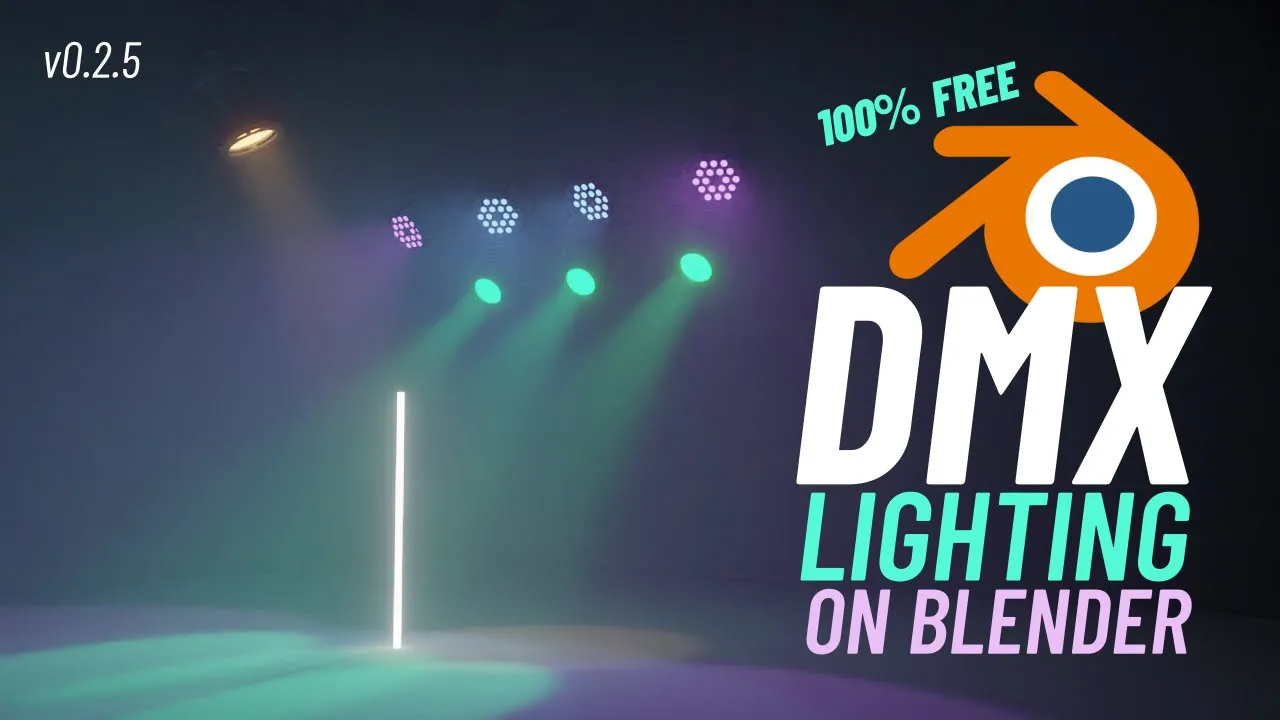
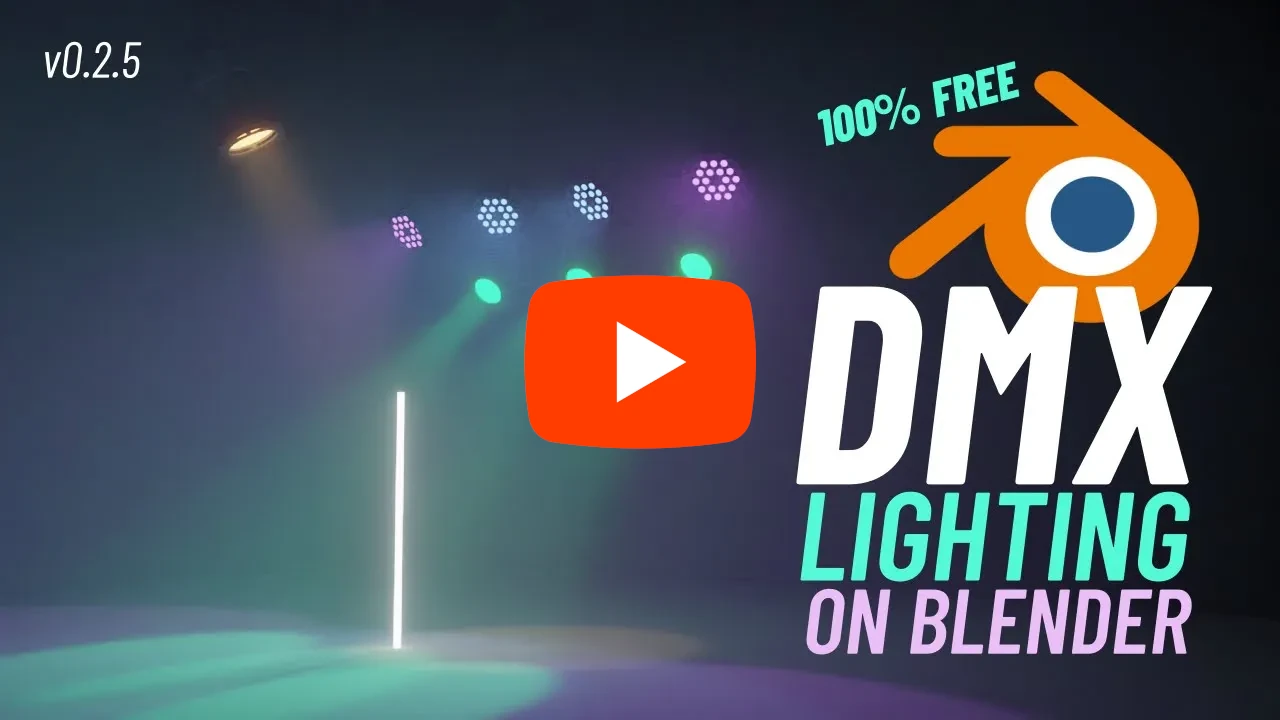
fix video link thumbnail

Changed region(s): [[0.4062, 0.3667, 0.5938, 0.6417]]

diff --git a/content/gallery.html b/content/gallery.html
@@ -223,7 +223,7 @@ menu:
       data-caption="Video: BlenderDMX Beta is out! GDTF + ArtNet in Blender 100% FREE"
     >
       <img
-        src="/assets/img/screenshots/thumbs/video02.jpg"
+        src="/assets/img/screenshots/thumbs/blenderdmx_yt.png"
         alt="Video: BlenderDMX Beta is out! GDTF + ArtNet in Blender 100% FREE"
       />
     </a>
